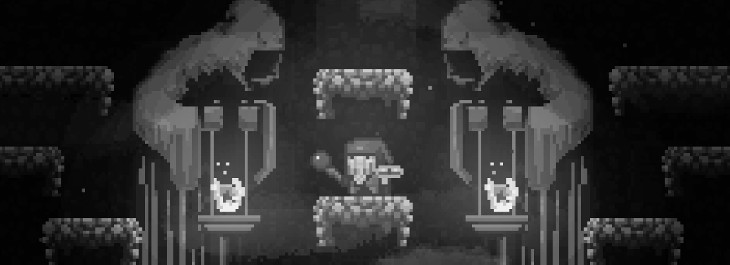
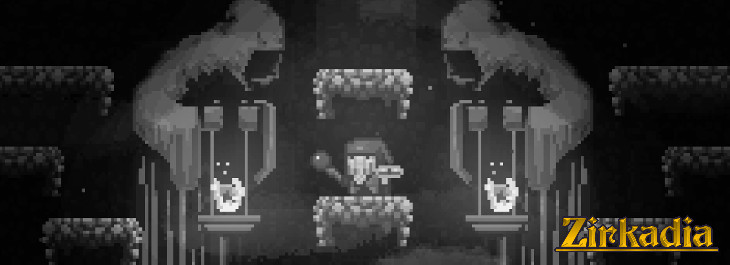
added Zirkadia

Changed region(s): [[0.7534, 0.8151, 0.9945, 0.966]]

diff --git a/_layouts/default.html b/_layouts/default.html
@@ -3,7 +3,7 @@
   <head>
       <meta charset="utf-8">
       <meta http-equiv="X-UA-Compatible" content="IE=edge,chrome=1">
-      <title>Flex - {{ page.title }}</title>
+      <title>Dan Hemgren</title>
       <meta name="viewport" content="width=device-width">
 
       <!-- syntax highlighting CSS -->
@@ -28,10 +28,13 @@
         </div>
         <div class="posts">
           <ul class="posts-list">
+            <center>
+              <b> Current projects </b> 
+            </center>
+            <br>
             {% for post in site.posts %}
               <li class="post-link">
                 <a class="post-title" href="{{ post.url }}">
-                  <span class="post-date">{{ post.date | date_to_string }}</span>
                   {{ post.title }}
                 </a>
               </li>
@@ -42,7 +45,7 @@
           <span id="footer-links">
             <a href="" class="footer-link">About</a> <span class="separator">&bull;</span>
             <a href="" class="footer-link">Twitter</a> <span class="separator">&bull;</span>
-            <a href="" class="footer-link">GitHub</a>
+            <a href="http://www.github.com/dhemgren" class="footer-link">GitHub</a>
           </span>
         </div>
       </div>

diff --git a/_site/posts/2017/04/17/zirkadia.html b/_site/posts/2017/04/17/zirkadia.html
@@ -50,9 +50,7 @@
         </div>
       </div>
 
-        
-
-<div class="content" id="home">
+        <div class="content" id="home">
   <div id="sidebar-button">
     <img src="/images/sidebar-button.png">
   </div>

diff --git a/_includes/post.html b/_includes/post.html
@@ -8,7 +8,6 @@
     </div>
     <div id="info-container">
       <h1 id="title">{{ page.title }}</h1>
-      <span id="date">{{ page.date | date_to_string }}</span>
     </div>
   </div>
 

diff --git a/_posts/2017-04-17-zirkadia.md b/_posts/2017-04-17-zirkadia.md
@@ -1,0 +1,31 @@
+---
+layout: post
+title: Zirkadia
+cover: cover.jpg
+categories: posts
+---
+
+## The elevator pitch
+
+Zirkadia is a 2D platformer that throws the player into a randomly generated Metroidvanian dungeon (as in _you need this to go there but have to visit that other room first to get that one thing_). Where it differs from the Castlevanias of yore is in it's "run"-based focus. The player will mostly likely know within 10 minutes if the current run will succeed or not, and a succesful run (the player reaches the boss and defeats it) will stretch no longer than 30 minutes. Rooms, enemies and items are shuffled each time the player dies, and the game will have a difficulty that makes a completed run a cause for celebration. The goal will be to deliver a just-one-more-run-experience akin to Binding of Isaac or Nuclear Throne. A scoring system will be put in place with a score depending on finishing time, life left and item acquisition and an online leaderboard will be hosted.
+
+Also, there's a whip made of lightning. _Lightning_.
+
+![alt text](images/lightningweb.gif "PIOW! PIOW!")  
+*Eat lightning, medieval lamp-thing!*
+
+
+## Where? When?
+ 
+The game is initially targetting Windows 10 and OSX. I started working on the game with mobile platforms in mind, but have settled on developing for desktop platforms as this will allow me to incorporate gamepad support as a core feature without having to cater to touchscreens. 
+
+The current roadmap consists of a playable build of the game happening sometime during late fall / winter of 2017, after which a three month playtesting phase will commence ending in a first release early 2018.
+
+## How? 
+
+The game is being developed in Unity and I'm doing all of the content creation myself. My way of rationalizing this, besides everything being so gosh darn fun to dabble with, is that it will do me good to have tried my hand at all walks of game creation to better understand what future team members are doing. 
+
+95% of the code is written from scratch in C#, with the dungeon itself being generated via a custom iterative DFS-algorithm that guarantees that all rooms are reachable and items are being placed sensibly. Alot of work has been put into giving the game an authentic, lofi-pixely feel that for all intents and purposes conveys a pixel perfect experience to the player.
+
+![alt text](images/mapweb.png "A randomly generated map")  
+*A generated map with keys, locked / unlocked doors and points of interest.*
